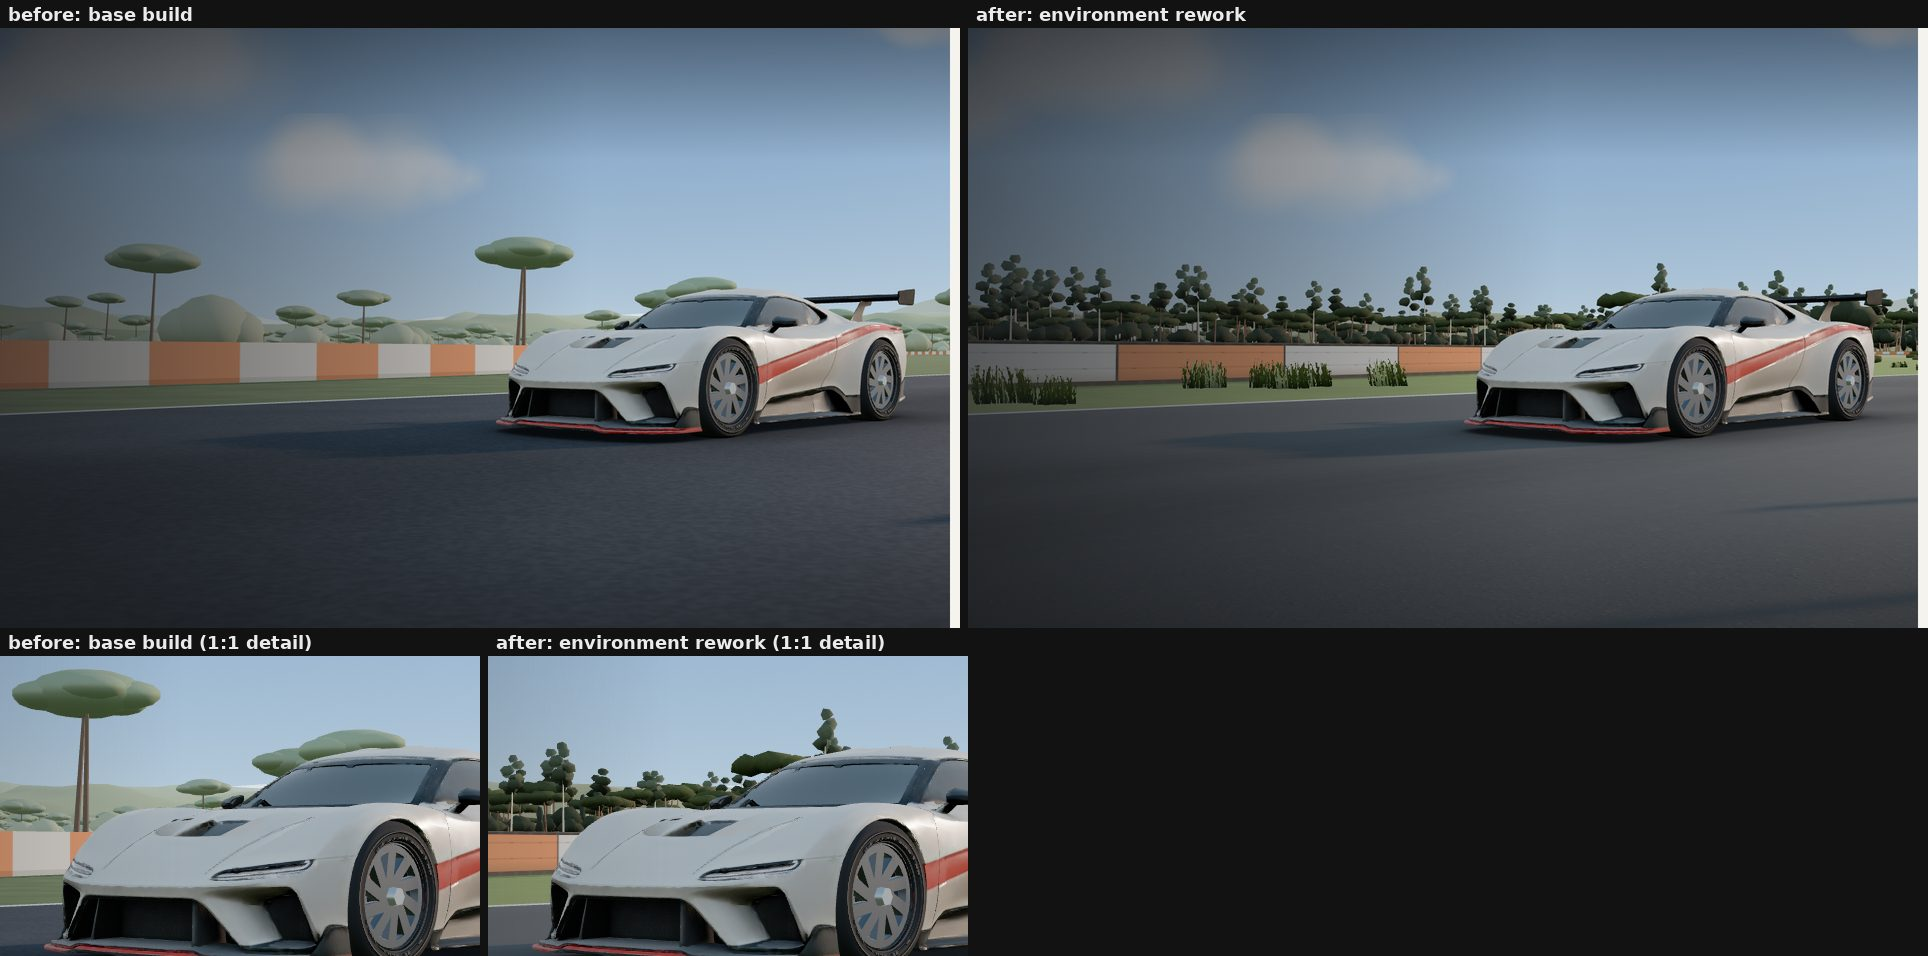
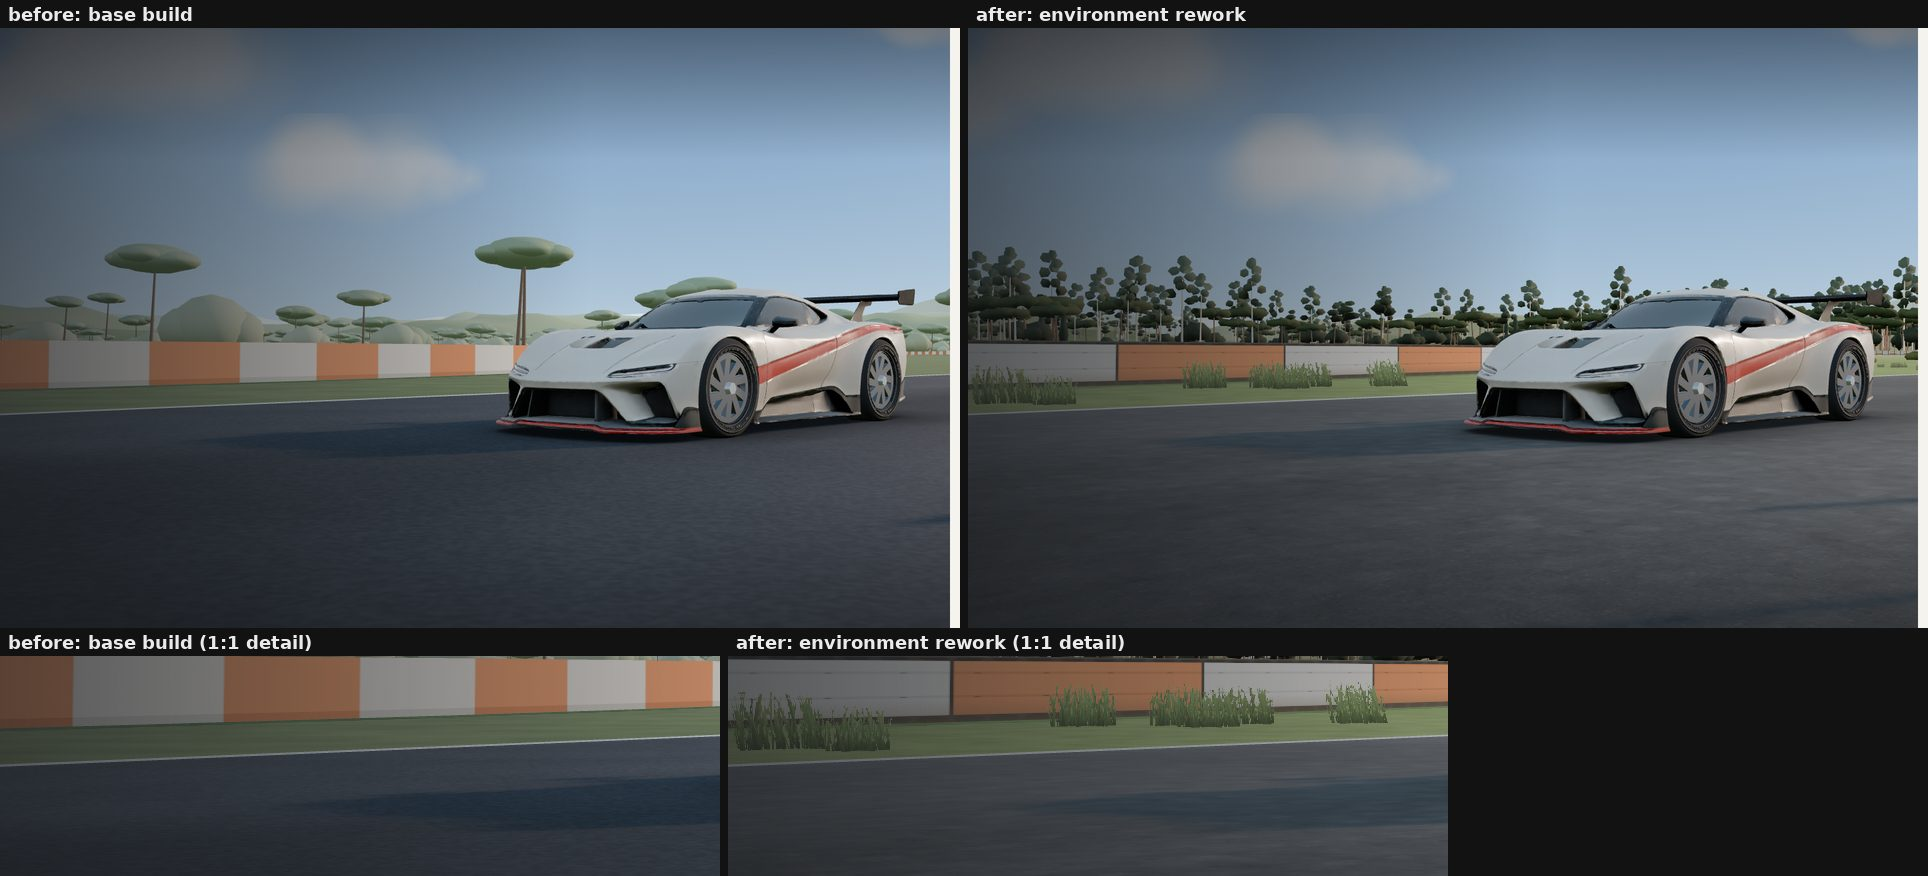
estoril: refresh the environment sheets and cost numbers after review
The before/after sheets compare the base build (8092, ec5cf43; the same
base captures as the first pass) with this branch (8131) at 1440x900:
the 23 views of the first pass, refreshed, plus 10 new fixed views of the
review fixes (front jack, tyre carrier, tufts at 0.6 m, the LOD band seen
from 45 m, trees at eye height, gravel at T1 from 1.5 m, run-off spill,
Armco end and bend, paddock bays). Every sheet is JPEG q82, 85-246 KB.

The README gains a review-fix table (cause, fix, measured value per
issue), the surface-grain table and three-way cost tables (base ->
builder -> after). Draw calls on 'high' at t = 0.05 / 0.2 / 0.375 / 0.5 /
0.7 / 0.95: 124 / 546 / 568 / 556 / 396 / 223 (builder 121 / 547 / 568 /
554 / 395 / 221; base 102 / 723 / 780 / 730 / 535 / 394); triangles 1.55
/ 1.66 / 1.43 / 1.91 / 1.61 / 1.47 M (base 5.24-5.50 M). Texture memory
high / mid / low 43.16 / 41.35 / 39.80 MB (builder 43.02 / 41.52 /
41.19, base 44.05 / 42.55 / 42.21). measure-clearance: 421 of 421 frames
OK. No capture reported a console error or warning.

Claude-Session: https://claude.ai/code/session_01Uuf159C1gQD81rektYMjwu

diff --git a/estoril/docs/comparisons/environment/README.md b/estoril/docs/comparisons/environment/README.md
@@ -1,8 +1,9 @@
 # Environment realism: before and after
 
-Before: the base build of this phase (geometry and hero-car work merged, commit `ec5cf43`). After: this branch.
-Same frames, same capture procedure (`scripts/capture.mjs`, 1440×900 unless noted, `q=high`, SwiftShader).
-Each sheet shows before on the left and after on the right; some add a 1:1 detail crop underneath.
+Before: the base build of this phase (geometry and hero-car work merged, commit `ec5cf43`). After: this branch,
+including the fixes made after review (see [Review fixes](#review-fixes)). Same frames, same capture procedure
+(`scripts/capture.mjs`, 1440×900 unless noted, `q=high`, SwiftShader). Each sheet shows before on the left and after
+on the right; some add a 1:1 detail crop underneath. "Builder" in the tables is the first pass (commit `c283211`).
 
 ## Sheets
 
@@ -18,69 +19,126 @@ Fixed cameras (t = 0.05 light): [kerb and gravel at 1.5 m](cam-kerb.jpg) · [wid
 grass](cam-wide.jpg) · [high view over a tree cluster](cam-veghigh.jpg) · [pit garages and tower](cam-pits.jpg) ·
 [tower and pit roof from above](cam-tower.jpg) · [grandstand](cam-stand.jpg) · [paddock](cam-paddock.jpg)
 
+Review fixes (t = 0.26 crew, t = 0.7 light otherwise): [front jack](cam-crew-jack.jpg) ·
+[tyre carrier](cam-crew-tyre.jpg) · [grass tufts at 0.6 m](cam-tufts-low.jpg) · [trees from 45 m, LOD
+band](cam-trees-high.jpg) · [trees at eye height](cam-trees-near.jpg) · [gravel at T1 from 1.5 m](cam-gravel-t1.jpg) ·
+[run-off and gravel spill](cam-runoff-spill.jpg) · [Armco end with terminal](cam-armco.jpg) ·
+[Armco round a bend](cam-armco-bend.jpg) · [paddock bays](cam-bays.jpg)
+
 ## What changed
 
 | area | before | after |
 |---|---|---|
-| ground and track | three canvas tiles on fixed UV grids (grass 9 m, asphalt 12 m along v, gravel 10 m) | world-space shading from one noise image and one detail image at several scales, no tile grid; palette of references §4.3–4.4; worn paint, faded kerbs, rubber in braking zones, gravel spill |
-| vegetation | 3 blob shapes, even scatter, ~2.7 M triangles, no LOD; tufts on the gravel (O3) | 7 Mediterranean species in woods, belts and clearings; near/far models with a dithered cross-fade; tufts kept off every surface, fading by distance, alpha-to-coverage |
-| buildings | one mesh per box (pits 181, grandstand 71, gantry 25) | merged per material (62 / 9 / 3); piers, blue doors, canopy, tower storeys and cladding, seat rows with aisles, space-frame roof, cranked debris fence, Armco, teal tyre stacks, paddock equipment |
-| people | 15 meshes each; visor at the back, brim to the right, armL on the right; 3 crew popping in | 3 meshes each, correct left/right; 8 crew in working poses, dithered fade in and out; 4 visitors |
+| ground and track | three canvas tiles on fixed UV grids (grass 9 m, asphalt 12 m along v, gravel 10 m) | world-space shading from one noise image and one detail image at several scales, no tile grid, contrast-preserving blends and 0.15–2 m layers that keep the grain at a distance; palette of references §4.3–4.4; worn paint, faded kerbs, rubber in braking zones, gravel spilled only beside the traps |
+| vegetation | 3 blob shapes, even scatter, ~2.7 M triangles, no LOD; tufts on the gravel (O3) | 7 Mediterranean species, every foliage clump on bark; a 15–40 m belt with bays and gaps, woods and clearings, open infield; near/far models switched per tree with hysteresis (a short dissolve while moving, none at rest); tufts kept off every surface, lit alike from both sides, fading by distance, alpha-to-coverage |
+| buildings and barriers | one mesh per box (pits 181, grandstand 71, gantry 25) | merged per material (62 / 9 / 3); piers, blue doors, canopy, tower storeys and cladding, seat rows with aisles, space-frame roof, cranked debris fence, 2.9 km of Armco round the corner furniture with terminals, teal tyre stacks, paddock equipment |
+| people | 15 meshes each; visor at the back, brim to the right, armL on the right; 3 crew popping in | 3 meshes each, correct left/right; 8 crew in working poses (arm IK: the jack man on the T-bar of a trolley jack, the tyre carrier holding a tyre on its tread), standing on the surface under them, dithered fade in and out; 4 visitors |
+
+## Review fixes
+
+| issue | cause | fix | measured |
+|---|---|---|---|
+| jack handle upside down, off the hands and the jack; jack box in the splitter | a fixed cylinder turned −1.05 rad | two-bone arm IK; a trolley jack 0.10 m ahead of the nose, handle from its socket to a T-bar under both hands | hands on the bar 0.000 m, socket 0.010 m from the trolley |
+| tyre carrier holds a solid disc at chest height, forearm inside it | a 12-sided cylinder at the hand | a lathe tyre on a rim, upright at the hips, hands on the tread at 10 and 2 o'clock | hands 0.035 m outside the tread |
+| half of every tuft 2.4× darker | up normals with DoubleSide: three.js flips the normal on back faces | the tuft shader keeps the up normal on both faces | back-face-only pixels 39/49/22 → 99/108/78 (front faces 96/105/76) |
+| eucalyptus clumps float | 10 clumps at random places, 3 fixed branches | nine limbs, each ending in a clump with a smaller one along it; far model from the same clumps | floating clumps (eucalyptus / holm oak / maritime pine) 10/10, 8/8, 2/8 → 0 |
+| LOD checkerboard in still frames | near and far drawn through a distance-driven dither across the whole 105–140 m band | a level per tree, switched with hysteresis, dissolving over 0.45 s only while the camera moves; settled at rest and on a snap | 0 half-faded trees after a snap on every tier |
+| close-range gravel and asphalt detail lost | blends of independent detail samples averaged the contrast away; nothing between the pebbles and 10 m | blends renormalised around the channel means; a coarser detail scale and 0.15–2 m layers (stone clusters, patching, hollows, ripples, tussocks) | table below |
+| Armco ~0.6 km in short rails ending in grass | runs blocked 30–35 m around every corner and gravel interval | the rail goes round the traps (2.5 m beyond their edge), ends at walls, flares gradually, terminals at open ends | 633 m in 7 runs → 2,919 m in 12 runs, 10 terminals |
+| world build 2–4× slower, 'low' not cheap | placement and indexing did not scale with the tier; JS arrays and per-vertex objects | candidate grid and canopy map scale with the tier, 256 px detail image on 'low', two-pass typed occupancy, faster noise rows, lighter Armco indices | table below |
+| crew and visitors sunk 2–4 cm | placed at y = 0 | stand on LAYERS.pitLane / LAYERS.paddock / the garage floor | feet within 0.0 mm of the surface (ray down onto the world) |
+| paddock lines 3 mm from the asphalt and the car decal | box tops at 0.023 m; aprons overlapping the paddock 1–2 mm apart | a blended decal 5 mm above the asphalt drawn before the car's contact decal; asphalt pieces edge to edge in one layer | lines at 0.025 m; 7 pieces, no overlap |
+| run-off spill reads as a dither band | thresholded white noise over 40 % of every run-off strip | a gravel mask gates it to run-off beside a trap; the gravel's own pebbles in a wandering 0.25–1.1 m strip | high-pass of the strip 4.12 → 6.19 |
+| belt a uniform band, trees in the infield, eucalyptus 10 % | belt score 28–110 m; infield allowed; uncalibrated weights | belt 15–40 m deep from a wandering 25–37 m edge with bays and gaps; no infield trees; calibrated shares | infield trees 24 → 0; eucalyptus 9.8 → 21.8 % |
+| small runtime allocations, unshared resources | `addUpdateRange` per refill, one decal plane per person, two chest materials | reused update ranges, one shared decal, `materials.toolChest` | — |
+
+Surface grain (high-pass luminance deviation, L − Gaussian r = 4, same crops of the 1440×900 captures):
+
+| surface | base | builder | after |
+|---|---|---|---|
+| asphalt near field, t = 0.05 | 1.04 | 0.94 | 1.22 |
+| pit-lane asphalt, t = 0.2 | 2.03 | 1.51 | 1.76 |
+| paddock asphalt, t = 0.7 | 1.41 | 0.89 | 1.33 |
+| pit lane, t = 0.95 | 1.11 | 0.79 | 1.11 |
+| gravel at T1 from 1.5 m (crops clear of the base's tufts) | 4.34 / 4.43 | — | 4.92 / 4.77 |
 
 ## Cost
 
 `tools/env/probe.mjs`: `renderer.info` draw calls and triangles summed over every render call of the frame (shadow
 passes included), the camera of the journey.
 
-| quality | t | draw calls | triangles |
+| quality | t | draw calls base → builder → after | triangles base → builder → after |
 |---|---|---|---|
-| high | 0.05 | 102 → 121 | 5.24 → 1.45 M |
-| high | 0.2 | 723 → 547 | 5.44 → 1.66 M |
-| high | 0.375 | 780 → 568 | 5.42 → 1.23 M |
-| high | 0.5 | 730 → 554 | 5.50 → 1.88 M |
-| high | 0.7 | 535 → 395 | 5.44 → 1.41 M |
-| high | 0.95 | 394 → 221 | 5.27 → 1.43 M |
-| mid | 0.05 | 98 → 117 | 3.26 → 0.91 M |
-| mid | 0.375 | 783 → 571 | 3.45 → 0.98 M |
-| mid | 0.5 | 714 → 538 | 3.42 → 1.25 M |
-| mid | 0.7 | 535 → 391 | 3.46 → 1.00 M |
-| mid | 0.95 | 390 → 217 | 3.29 → 0.94 M |
-| low | 0.05 | 51 → 60 | 1.05 → 0.44 M |
-| low | 0.375 | 752 → 548 | 1.25 → 0.68 M |
-| low | 0.5 | 702 → 521 | 1.22 → 0.68 M |
-| low | 0.7 | 233 → 219 | 1.12 → 0.53 M |
-| low | 0.95 | 150 → 121 | 1.06 → 0.47 M |
+| high | 0.05 | 102 → 121 → 124 | 5.24 → 1.45 → 1.55 M |
+| high | 0.2 | 723 → 547 → 546 | 5.44 → 1.66 → 1.66 M |
+| high | 0.375 | 780 → 568 → 568 | 5.42 → 1.23 → 1.43 M |
+| high | 0.5 | 730 → 554 → 556 | 5.50 → 1.88 → 1.91 M |
+| high | 0.7 | 535 → 395 → 396 | 5.44 → 1.41 → 1.61 M |
+| high | 0.95 | 394 → 221 → 223 | 5.27 → 1.43 → 1.47 M |
+| mid | 0.05 | 98 → 117 → 118 | 3.26 → 0.91 → 1.04 M |
+| mid | 0.2 | 722 → 543 → 542 | 3.46 → 1.21 → 1.23 M |
+| mid | 0.375 | 783 → 571 → 571 | 3.45 → 0.98 → 1.13 M |
+| mid | 0.5 | 714 → 538 → 540 | 3.42 → 1.25 → 1.22 M |
+| mid | 0.7 | 535 → 391 → 390 | 3.46 → 1.00 → 1.15 M |
+| mid | 0.95 | 390 → 217 → 215 | 3.29 → 0.94 → 1.01 M |
+| low | 0.05 | 51 → 60 → 64 | 1.05 → 0.44 → 0.54 M |
+| low | 0.2 | 442 → 403 → 403 | 1.19 → 0.62 → 0.71 M |
+| low | 0.375 | 752 → 548 → 548 | 1.25 → 0.68 → 0.76 M |
+| low | 0.5 | 702 → 521 → 521 | 1.22 → 0.68 → 0.73 M |
+| low | 0.7 | 233 → 219 → 219 | 1.12 → 0.53 → 0.61 M |
+| low | 0.95 | 150 → 121 → 122 | 1.06 → 0.47 → 0.55 M |
 
-The 0.05 frame gains ~20 draws (the near tree sets and their shadows); every other frame loses 30–45 %.
+Every frame stays 39–73 % below the base in triangles and, except the 0.05 close-up (the near tree sets and their
+shadows), 6–45 % below it in draw calls. After review the triangles rose by up to 0.2 M (the eucalyptus near and far
+models carry their limbs and more clumps; 4.6× the Armco) and the draw calls by at most 4.
 
 Texture memory (estimate of every texture bound to a scene material or shader uniform, format-aware, mipmaps
-included; most of it is the hero car's): high 44.05 → 43.02 MB, mid 42.55 → 41.52 MB, low 42.21 → 41.19 MB. The
-three canvas surface tiles (3.1 MB) became a 512 px detail image and a 256 px noise image (1.75 MB); new are the
-canopy occlusion map (R8, 0.7 MB), the lap texture (8 KB) and small seat, fence and W-beam textures.
+included; most of it is the hero car's), base → builder → after: high 44.05 → 43.02 → 43.16 MB, mid 42.55 → 41.52 →
+41.35 MB, low 42.21 → 41.19 → 39.80 MB. The three canvas surface tiles (3.1 MB) became a 512 px detail image (256 px
+on 'low') and a 256 px noise image; new are the canopy occlusion map (R8, 0.7 MB on high, 0.4 MB on mid, 0.2 MB on
+low), the run-off gravel mask (R8, 0.15 MB), the lap texture (8 KB) and small seat, fence and W-beam textures.
 
-World build in Node (cold, `tools/env/world-stats.mjs`): high 318 → ~700 ms, mid 189 → ~444 ms, low 147 → ~409 ms
-(occupancy ~115 ms, tree placement ~85 ms, scrub and tufts ~90 ms, LOD meshes and the canopy map ~50 ms, detail
-and noise images ~80 ms). `depthRange.build()` 77–84 → 63–77 ms on high. Per frame the vegetation only refills its
-near sets after 6 m of camera travel; no updater allocates.
+World build in Node (`tools/env/build-time.mjs`: cold, each tree built in a fresh process, 6 interleaved rounds,
+minimum; host load 0.6–1.4):
+
+| quality | base | builder | after |
+|---|---|---|---|
+| high | 270 ms | 731 ms | 661 ms |
+| mid | 301 ms | 708 ms | 670 ms |
+| low | 250 ms | 606 ms | 503 ms |
+
+Per phase (`tools/env/world-stats.mjs`, builder → after, high / mid / low): occupancy 133 / 108 / 87 → 73 / 58 / 46
+ms, trees 85 / 66 / 60 → 92 / 60 / 34 ms, scrub 58 / 39 / 43 → 34 / 28 / 18 ms. `depthRange.build()` 78 / 52 / 25
+ms. Per frame the vegetation refills its near sets after 6 m of camera travel and steps the levels of the near set;
+no updater allocates.
 
 ## Checks
 
-- `node scripts/test-environment.mjs`: every tree, scrub, pampas clump and tuft clears the track asphalt, kerbs,
-  run-off, gravel, walls, pit lane, paddock, roads and buildings by more than its footprint (smallest margins on
-  high: tufts 0.40–0.69 m, scrub 0.54 m from a wall, trees 1.2 m from a wall and ≥ 27.5 m from the asphalt);
-  budgets per tier (high 5,200 trees / 3,811 scrub / 60 pampas / 9,000 tufts; mid 0.6×; low 0.35×); finite
-  transforms; LOD bounds; people left/right and feet on the ground in all 11 poses; gradual fades.
+- `node scripts/test-environment.mjs` (high, mid, low; exits non-zero on failure):
+  - every tree, scrub, pampas clump and tuft clears the track asphalt, kerbs, run-off, gravel, walls, pit lane,
+    paddock, roads and buildings by more than its footprint (smallest margins on high: tufts 0.40–0.69 m, scrub
+    0.54 m from a wall, trees 1.59 m from a wall and ≥ 28 m from the asphalt); no tree inside the loop;
+  - species within 5 points of their reference shares (high: stone pine 34.1 %, eucalyptus 21.8 %, holm oak
+    24.9 %, maritime pine 15.2 %, cypress 4.1 %); budgets per tier (high 5,200 trees / 3,804 scrub / 60 pampas /
+    9,000 tufts; mid 0.6×; low 0.35×); finite transforms;
+  - every foliage clump of every near model on bark; LOD bounds; after a snap no tree half-faded; on a 600 m walk
+    far beyond fadeEnd and near before fadeStart − 6 m at every frame, settled within 0.45 s of stopping;
+  - people left/right, visor and brim forward in all 11 poses; held props on the hands; everyone standing on the
+    surface under them; the jack ahead of the car's nose; gradual fades;
+  - paddock asphalt pieces without overlap, bay lines a decal 5 mm above them, drawn before the car's decal;
+  - at least 2,500 m of Armco (2,919 m), ≥ 9.00 m from the asphalt, 3.44 m from gravel, 1.24 m from walls.
 - `node scripts/measure-clearance.mjs`: near < clearance in 421 of 421 frames, no eye inside geometry.
 - `test-geometry`, `test-car-motion`, `test-events` pass. No console errors or warnings in any capture.
 - Repetition (`tools/env/repetition.py`, top-down 80 m over the infield): luminance autocorrelation at the old
-  9 m grass period 0.68 → 0.27.
-- Shimmer after a 1 cm camera move (`tools/env/flicker.mjs`), kerb view at 1.5 m: 5,871 → 5,018 px (t = 0.05),
-  4,553 → 4,066 px (t = 0.5). In the low wide view the changed pixels are edges of tufts 2–8 m away and of
-  trees 20–60 m away, which genuinely move 0.6–3 px, not alpha-test aliasing.
+  9 m grass period 0.68 → 0.27 (first pass).
+- Shimmer after a 1 cm camera move (`tools/env/flicker.mjs`, first pass), kerb view at 1.5 m: 5,871 → 5,018 px
+  (t = 0.05), 4,553 → 4,066 px (t = 0.5).
 
 ## Known limits
 
-- The eucalyptus share is ~10 % of the trees (reference 25 %): it follows a large noise "stand" field and loses
-  places to the pines in the belts.
-- The world build is ~380 ms slower on high (cold), mostly the exact placement checks.
+- The world build is still 2–2.5× the base (about 0.4 s more on high, 0.25 s on low, cold in Node): mostly the exact
+  placement against the occupancy index and the noise and detail images. It runs before the first frame because
+  `depthRange.build()` indexes the vegetation with the rest of the world.
+- Eucalyptus is 21.8 % of the trees (reference 25 %): its stands follow a large noise field.
+- The front jack waits just ahead of the nose rather than lifting the car (the car's motion owns its height).
 - Grass albedo is the reference colour × 1.9, to keep the previous display brightness under the current lights.
